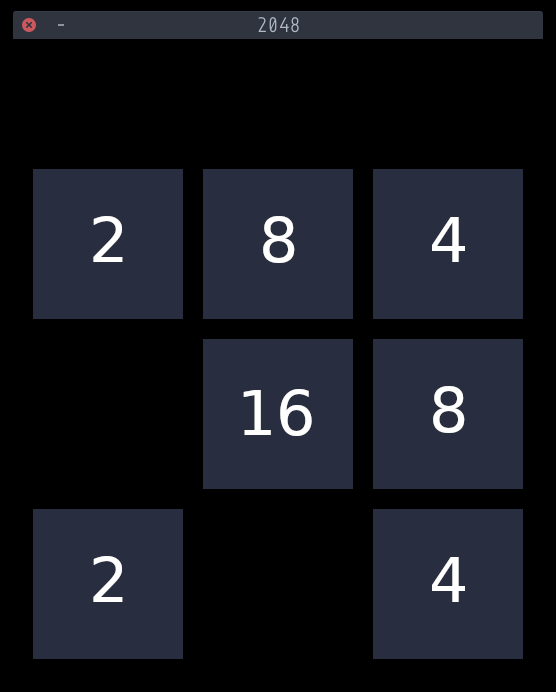
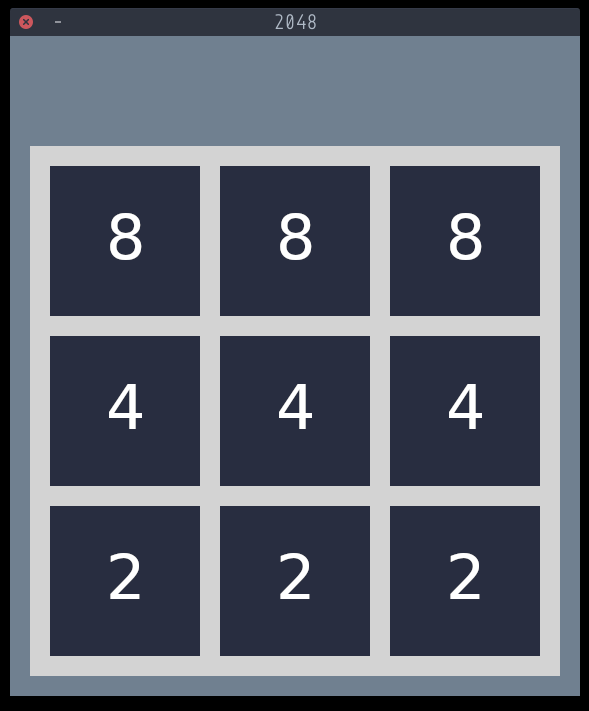
Added background to tiles; Changed background color;

diff --git a/frontend.c b/frontend.c
@@ -66,9 +66,20 @@ draw_board (
     SDL_Texture **tiles, 
     CELL *board
 ) {
+    SDL_Rect tile_background = {
+        .x = 20,
+        .y = 110,
+        .w = 530,
+        .h = 530
+    };
+
+    SDL_SetRenderDrawColor(renderer, 211, 211, 211, 255);
+    SDL_RenderFillRect(renderer, &tile_background);
+    SDL_SetRenderDrawColor(renderer, 112, 128, 144, 255);
+
     for (int x = 0; x < BOARD_SIZE; x++) {
         for (int y = 0; y < BOARD_SIZE; y++) {
-            int x_pos = x * 170 + 20;
+            int x_pos = x * 170 + 40;
             int y_pos = y * 170 + 130;
 
             SDL_Rect src_area;
@@ -88,6 +99,9 @@ draw_board (
                 SDL_Texture *tile_selected = tiles[((int) log2(*cell)) - 1];
                 SDL_RenderCopy(renderer, tile_selected, &src_area, &dest_area);
             }
+            else {
+
+            }
         }
     }
 }
@@ -103,7 +117,7 @@ initialize_sdl (SDL_Window **window, SDL_Renderer **renderer) {
     *window = SDL_CreateWindow(
         "2048",
         SDL_WINDOWPOS_UNDEFINED, SDL_WINDOWPOS_UNDEFINED,
-        530, 640,
+        570, 660,
         0
     );
     if (window == NULL) {
@@ -142,7 +156,8 @@ main () {
     SDL_Texture **tiles = load_tiles(renderer);
     SDL_Event event;
 
-    SDL_SetRenderDrawColor(renderer, 0, 0, 0, 255);
+    SDL_SetRenderDrawColor(renderer, 112, 128, 144, 255);
+    SDL_RenderClear(renderer);
 
     // initial setup
     insert_two_randomly(board);

diff --git a/backend.c b/backend.c
@@ -1,5 +1,4 @@
 
-
 #include <stdio.h>
 #include <stdlib.h>
 #include <stdbool.h>
